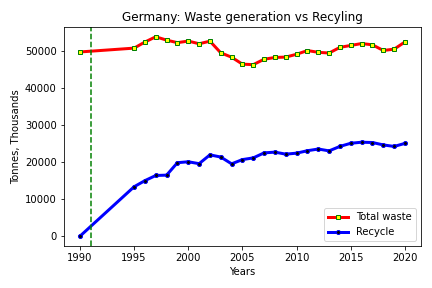
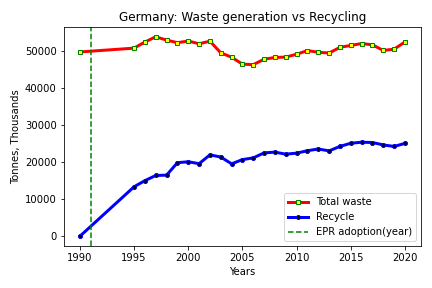
update

Changed region(s): [[0.662, 0.6562, 0.963, 0.8438], [0.2708, 0.0312, 0.8426, 0.0938]]

diff --git a/waste_epr.py b/waste_epr.py
@@ -16,7 +16,7 @@ import seaborn as sns
 import numpy as np
 import fiona
 from adjustText import adjust_text
-import squarify    # pip install squarify (algorithm for treemap)
+import squarify
 import io
 import zipfile
 from collections import defaultdict 
@@ -109,7 +109,7 @@ for country in country_EPR_year:
     myaxes.set_xlabel('Years')
     myaxes.set_ylabel('Tonnes, Thousands')
     myaxes.set_title(country + ': Waste generation vs Recycling')
-    plt.axvline(x=country_EPR_year[country], color='g', linestyle='--')
+    plt.axvline(x=country_EPR_year[country], label = 'EPR adoption(year)', color='g', linestyle='--')
 
     myaxes.legend()
     fig.tight_layout()

diff --git a/README.md b/README.md
@@ -1,26 +1,26 @@
 # waste-management-analysis
-Waste Management Analysis
 
-
-
-
-Waste Management Analysis
+##Waste Management Analysis
 
 @author: sahilmammadli """
 
-Final Project: Waste Management Analysis- will be updated...
+###Final Project: 
 
-Summary
+Waste Management Analysis- will be updated...
+
+###Summary
 This project examines .......
 
-Input Data
-There are three input data for this project. Both are CSV files. 
 
-Outputs
+###Input Data
+There are three input data for this project. All are CSV files. 
+
+
+###Outputs
 The project has the following outputs:
 
 
 
-Results
-The project has the following results
+###Results
+The project has the following results:
 ....
